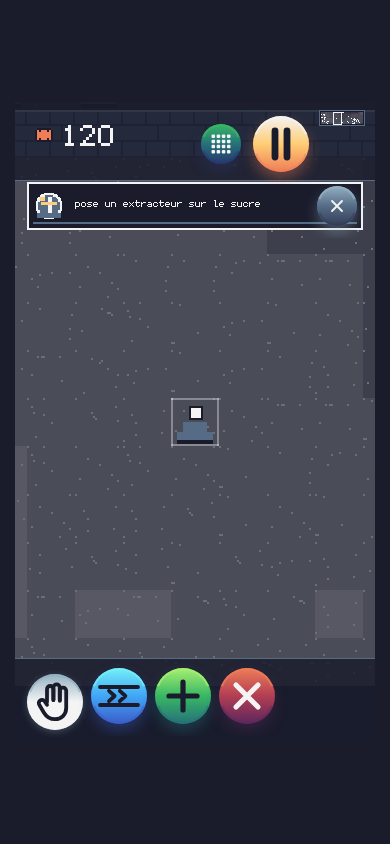
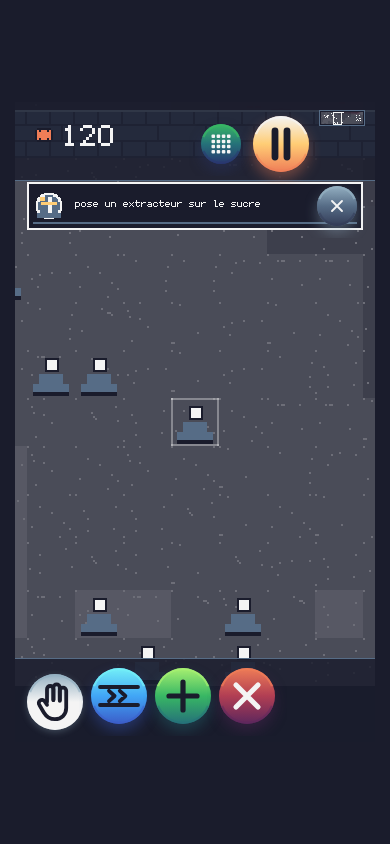
Les amorces du mur, l'outil qui suit le doigt, et ce qu'un tapis porte
Quatre gestes demandés, quatre endroits :

— un mur fermé laisse dépasser ses trois connecteurs rouges sous sa rangée.
  Le passage existe avant qu'on l'ouvre et rien n'oblige à le cacher ; c'est
  par en dessous parce que la caméra s'arrête au mur et que la rangée de
  derrière reste sous le voile du haut quoi qu'on fasse — donc du côté où le
  joueur se tient, là même où son tapis viendra buter. Un dessin, rien de
  plus : la simulation ne pose les connecteurs qu'au moment où le mur cède ;

— un appui court sur ce qui est bâti prend le convoyeur, un appui court sur
  le sol rend la main. Poser et détruire s'en tiennent à l'écart, et un
  bâtiment posé rend toujours la main : c'est le geste d'après qui décide ;

— tirer la carte n'est plus un appui court. Un doigt qui a glissé n'a rien
  touché, sans quoi promener la vue depuis une machine changeait d'outil ;

— le panneau d'un tapis nomme ce qu'il porte, souligné donc explicable. La
  branche d'un trieur ne répète pas la matière qu'elle range.
Claude-Session: https://claude.ai/code/session_01L2bQMycAsarP9yexQHaXSE

diff --git a/src/input/pointer.js b/src/input/pointer.js
@@ -90,6 +90,10 @@ export function brancherPointeur(canvas, vue, jeu) {
   let departPoint = null;
   let minuterie = null;
   let appuiLongFait = false;
+  // Le doigt a-t-il glissé ? Un appui qui promène la vue n'est pas un appui
+  // court : sans ce drapeau, tirer la carte depuis une machine passerait pour
+  // l'avoir touchée, et changerait d'outil au relâchement.
+  let glisse = false;
   let dernierPoint = null;
   let actionsMenu = [];
   let animMenu = null;
@@ -340,6 +344,28 @@ export function brancherPointeur(canvas, vue, jeu) {
     etat.surmodale = null;
   }
 
+  // Les matières posées sur un tapis, dans l'ordre où on les y rencontre, une
+  // fois chacune. Chaque matière porte son article — « de la fraise », jamais
+  // « du fraise » — et son nom reste entre accolades : souligné dans le
+  // panneau, il s'explique d'un doigt comme partout ailleurs.
+  //
+  // Rien n'est compté : un enfant n'a pas à lire « 7 » pour voir qu'un tapis
+  // est plein, il le voit sur la carte. Ce que le panneau ajoute, c'est le nom
+  // de ce qui est dessus quand c'est trop petit ou trop loin pour se lire.
+  function matieresPortees(convoyeur, sauf) {
+    const vus = [];
+    for (const item of convoyeur.items) {
+      // La branche d'un trieur nomme déjà sa matière : la répéter ferait
+      // « emporte le sucre que le trieur range, et porte du sucre ».
+      if (item.type === sauf || vus.includes(item.type)) continue;
+      vus.push(item.type);
+    }
+    const mots = vus.map((id) => ITEMS[id].du + ' {' + id + '}');
+    if (mots.length === 0) return '';
+    if (mots.length === 1) return mots[0];
+    return mots.slice(0, -1).join(', ') + ' et ' + mots[mots.length - 1];
+  }
+
   function ouvrirPanneau(machine, convoyeur) {
     if (machine) {
       // Un extracteur posé dit ce qu'il récolte : sa description porte la
@@ -360,6 +386,13 @@ export function brancherPointeur(canvas, vue, jeu) {
       const role = convoyeur.role;
       const trieur = convoyeur.source && convoyeur.source.def && convoyeur.source.def.tri
         ? convoyeur.source : null;
+      // Ce qu'il porte en ce moment. Un tapis plein est la première chose
+      // qu'on regarde quand la chaîne cale : le panneau le dit avec des mots
+      // soulignés, donc explicables — on remonte de la matière à ce qui la
+      // fait sans quitter le tapis.
+      const porte = matieresPortees(
+        convoyeur, role === 'triee' && trieur ? trieur.matiereTriee : null,
+      );
       poserPanneau(
         {
           nom: role === 'triee' && trieur ? ITEMS[trieur.matiereTriee].nom
@@ -369,8 +402,10 @@ export function brancherPointeur(canvas, vue, jeu) {
         },
         role === 'triee' && trieur
           ? 'emporte le {' + trieur.matiereTriee + '} que le {trieur} range'
+            + (porte ? ', et porte ' + porte : '')
           : role === 'reste' ? 'emporte tout ce que le {trieur} ne range pas'
-            : MACHINES.convoyeur.description,
+            + (porte ? ', et porte ' + porte : '')
+            : porte ? 'transporte ' + porte : MACHINES.convoyeur.description,
         trieur ? optionsMachine(trieur) : [],
       );
     } else return;
@@ -837,6 +872,7 @@ export function brancherPointeur(canvas, vue, jeu) {
     if (doigts.size === 2) { ouvrirPince(); return; }
     if (doigts.size > 1) return;
     appuiLongFait = false;
+    glisse = false;
     if (choixTouche(p)) { relacher(); return; }
     // La surmodale passe avant le menu pause : le livre des matières en ouvre
     // une, elle se pose dessus, et c'est donc elle qu'on touche d'abord.
@@ -866,8 +902,14 @@ export function brancherPointeur(canvas, vue, jeu) {
 
     // Poser un extracteur, sur un gisement. Même règle : tant qu'il est
     // choisi, le doigt ne trace pas.
+    //
+    // La cellule de départ est oubliée : le doigt a bâti, il n'a pas touché.
+    // Sans cela, le relâchement croirait à un appui court sur ce qui vient
+    // d'apparaître et prendrait le convoyeur — or un bâtiment posé rend la
+    // main, et c'est le geste d'après qui décide de la suite.
     if (etat.outil === 'construction' && etat.constructible === 'extracteur') {
       batirExtracteur(c);
+      departCellule = null;
       return;
     }
 
@@ -876,7 +918,11 @@ export function brancherPointeur(canvas, vue, jeu) {
     // tracé reste le geste du convoyeur seul.
     if (etat.outil === 'construction') {
       const choisi = CONSTRUCTIBLES.find((x) => x.id === etat.constructible);
-      if (choisi && choisi.machine) { batirMachine(c, choisi.machine); return; }
+      if (choisi && choisi.machine) {
+        batirMachine(c, choisi.machine);
+        departCellule = null;
+        return;
+      }
     }
 
     // Le tracé est le geste du convoyeur, et de lui seul. En main on regarde,
@@ -934,6 +980,7 @@ export function brancherPointeur(canvas, vue, jeu) {
     // Le moindre déplacement fait d'un appui un tracé : on annule l'attente,
     // et on referme le panneau s'il avait déjà eu le temps de sortir.
     if (departPoint && Math.hypot(p.x - departPoint.x, p.y - departPoint.y) > SEUIL_GLISSE) {
+      glisse = true;
       clearTimeout(minuterie);
       minuterie = null;
       if (appuiLongFait) { etat.panneau = null; appuiLongFait = false; }
@@ -1038,12 +1085,34 @@ export function brancherPointeur(canvas, vue, jeu) {
       return;
     }
 
-    if (departCellule) actionPrincipale(departCellule);
+    if (departCellule && !glisse) actionPrincipale(departCellule);
     relacher();
+  }
+
+  // Un appui court dit aussi ce qu'on va faire ensuite, et il n'y a que deux
+  // suites : ce qu'on touche est bâti, et le geste d'après est de lui tirer un
+  // tapis ; c'est du sol nu, et il n'y a rien à y faire que regarder. L'outil
+  // suit donc le doigt au lieu de se choisir dans la barre — c'est un aller et
+  // retour de moins entre le bas de l'écran et la case qu'on vise.
+  //
+  // Poser et détruire s'en tiennent à l'écart : ce sont des outils qu'on garde
+  // le temps d'en poser dix ou d'en retirer trois, et le doigt y touche des
+  // cases sans arrêt. Un tapis rendrait la main au premier appui.
+  function outilApresAppui(c) {
+    if (etat.outil === 'construction' || etat.outil === 'destruction') return;
+    const g = gisementEn(monde(), c.cx, c.cy);
+    const bati = machineEn(scene(), c.cx, c.cy) || convoyeurEn(scene(), c.cx, c.cy)
+      || (g && g.extracteur);
+    const vise = bati ? 'convoyeur' : 'main';
+    if (etat.outil === vise) return;
+    etat.outil = vise;
+    fermerMenu();
+    majBoutons();
   }
 
   // Appui court : ce que l'élément fait de plus évident.
   function actionPrincipale(c) {
+    outilApresAppui(c);
     const machine = machineEn(scene(), c.cx, c.cy);
     if (!machine) {
       // Un gisement nu propose d'y bâtir : c'est la seule chose à y faire.

diff --git a/src/render/mur.js b/src/render/mur.js
@@ -31,7 +31,7 @@ import {
   murCourant, mursPoses, cellulesPassage, avancementMur, recepteurDuMur,
 } from '../sim/mur.js';
 import { versEcran } from '../camera.js';
-import { spriteItem } from './sprites.js';
+import { spriteItem, amorceConnecteur } from './sprites.js';
 
 // Ce que le monde fermé garde de lumière. Assez pour qu'on distingue les
 // biomes de l'étage suivant — c'est ce qui donne envie d'y monter — et pas
@@ -86,10 +86,32 @@ export function dessinerMur(ctx, monde, f) {
       const coin = coinCellule(cx, pose.cy);
       ctx.drawImage(tuileMur, coin.x, coin.y, CELLULE, CELLULE);
     }
+    // Un mur fermé montre déjà ses connecteurs : ils dépassent de sa rangée,
+    // vers le bas. Sa réception occupe les trois cases du passage, et sans ce
+    // débord les tapis rouges n'auraient nulle part où se voir tant que le mur
+    // tient. On voit donc par où la chaîne montera avant même d'en avoir le
+    // droit — et ce n'est qu'un dessin : rien n'y circule.
+    if (!pose.ouvert) dessinerAmorces(ctx, pose.cy, f);
   }
 
   const recepteur = recepteurDuMur(monde);
   if (recepteur) dessinerRecepteur(ctx, monde, recepteur);
+}
+
+// Les amorces des connecteurs d'un mur fermé : un bout de tapis rouge par case
+// du passage, qui déborde sur la rangée d'en dessous — celle où le joueur se
+// tient, et la seule des deux qu'on puisse regarder : la caméra s'arrête au
+// mur, et ce qu'il y a derrière reste sous le voile du haut quoi qu'on fasse.
+//
+// C'est aussi la case où viendra buter le tapis qu'on monte : l'amorce est
+// exactement là où le raccord se fera.
+function dessinerAmorces(ctx, cy, f) {
+  const dessous = cy + 1;
+  if (dessous < f.cy0 || dessous > f.cy1) return;
+  for (const c of cellulesPassage(cy)) {
+    if (c.cx < f.cx0 || c.cx > f.cx1) continue;
+    amorceConnecteur(ctx, c.cx, dessous);
+  }
 }
 
 // --- la réception ----------------------------------------------------------

diff --git a/src/render/sprites.js b/src/render/sprites.js
@@ -180,6 +180,32 @@ const chevronConnecteur = jeuDeChevrons(
 );
 const chevronsDe = (convoyeur) => (convoyeur.connecteur ? chevronConnecteur : spriteChevron);
 
+// L'amorce d'un connecteur : le bout de tapis rouge qui dépasse d'un mur
+// fermé, du côté où le joueur se tient.
+//
+// Le passage existe avant qu'on l'ouvre, et il n'y a aucune raison de le
+// cacher : la réception occupe les trois cases du mur, si bien que les
+// connecteurs n'avaient nulle part où se voir tant qu'il tenait — et la
+// rangée d'au-dessus ne se regarde pas, la caméra s'arrête au mur. Ils
+// sortent donc du mur par en dessous, de quelques pixels : on voit par où la
+// chaîne montera avant même d'en avoir le droit, et c'est la promesse du mur,
+// dessinée plutôt qu'écrite.
+//
+// C'est un dessin et rien d'autre : la simulation ne pose les connecteurs
+// qu'au moment où le mur cède, et rien ne circule là tant que ce n'est pas
+// fait.
+const AMORCE = 5 * PIXEL; // ce qui dépasse, en unités du monde
+
+export function amorceConnecteur(ctx, cx, cy) {
+  const coin = coinCellule(cx, cy);
+  ctx.save();
+  ctx.beginPath();
+  ctx.rect(coin.x, coin.y, CELLULE, AMORCE);
+  ctx.clip();
+  tuile(ctx, TUILES_CONNECTEUR.droit, cx, cy, 1);
+  ctx.restore();
+}
+
 // Le téléporteur a disparu avec les cartes séparées : tout voyage sur des
 // tapis, du premier gisement au mur. Son sprite reviendra le jour où
 // il reviendra, en déblocage de fin.

diff --git a/CLAUDE.md b/CLAUDE.md
@@ -176,6 +176,21 @@ Ne pas rediscuter ces points sans me le demander explicitement.
   filtre. Un appui long ouvre les informations et les réglages. Le panneau
   montre en grand **ce dont il parle** : sur un gisement, c'est la matière,
   pas la machine qu'on propose d'y bâtir.
+  **Un tapis dit ce qu'il porte** : sa description nomme les matières posées
+  dessus, soulignées comme partout — on remonte de ce qui bloque à ce qui le
+  fait sans quitter le tapis. Rien n'est compté : un enfant voit sur la carte
+  qu'un tapis est plein, le panneau ne fait que nommer ce qu'il y a dessus
+  quand c'est trop petit ou trop loin pour se lire.
+- **L'outil suit le doigt.** Un appui court change aussi d'outil, parce qu'il
+  n'y a que deux suites possibles : ce qu'on touche est bâti — machine, tapis,
+  extracteur — et le geste d'après est de lui tirer un tapis, donc on passe au
+  convoyeur ; c'est du sol nu, et il n'y a rien à y faire que regarder, donc on
+  revient à la main. C'est un aller et retour de moins entre la barre du bas et
+  la case qu'on vise. **Poser et détruire s'en tiennent à l'écart** : ce sont
+  des outils qu'on garde le temps d'en poser dix ou d'en retirer trois. Un
+  bâtiment posé rend toujours la main, et non le convoyeur : c'est le geste
+  d'après qui décide de la suite. Et tirer la carte n'est pas un appui court —
+  un doigt qui a glissé n'a rien touché.
 - **Un bâtiment posé rend la main.** C'est l'inverse de ce qui était décidé —
   « l'élément choisi le reste », pour en poser dix d'affilée — et c'est une
   décision qui a changé : on pose un bâtiment, puis on tire ses tapis, et
@@ -486,6 +501,16 @@ Un tapis d'une seule case n'a pas de direction à lui : `sens` la lui donne, et
 un connecteur monte, comme le jeu. C'est par là que la chaîne d'en bas rejoint
 l'étage du dessus, et l'usine du dessous continue de tourner pour toujours.
 Trois cases pour quarante-deux, donc un passage à viser, et c'est voulu.
+
+**Ils se voient avant de s'ouvrir.** Un mur fermé laisse dépasser ses trois
+amorces rouges de quelques pixels, sous sa rangée : le passage existe avant
+qu'on l'ouvre, et rien n'oblige à le cacher — sa réception occupe les trois
+cases, les connecteurs n'avaient nulle part où se montrer. C'est par en dessous
+et non par-dessus : la caméra s'arrête au mur, et la rangée de derrière reste
+sous le voile du haut quoi qu'on fasse. Donc du côté où le joueur se tient, et
+exactement là où son tapis viendra buter. Ce n'est qu'un dessin
+(`amorceConnecteur`, dans `render/sprites.js`) : la simulation ne pose les
+connecteurs qu'au moment où le mur cède.
 
 **Ce qu'un mur montre, et pas un mot** : une rangée de blocs en ardoise, ce
 qu'il y a derrière éteint, et sa réception au milieu — la matière réclamée, une
